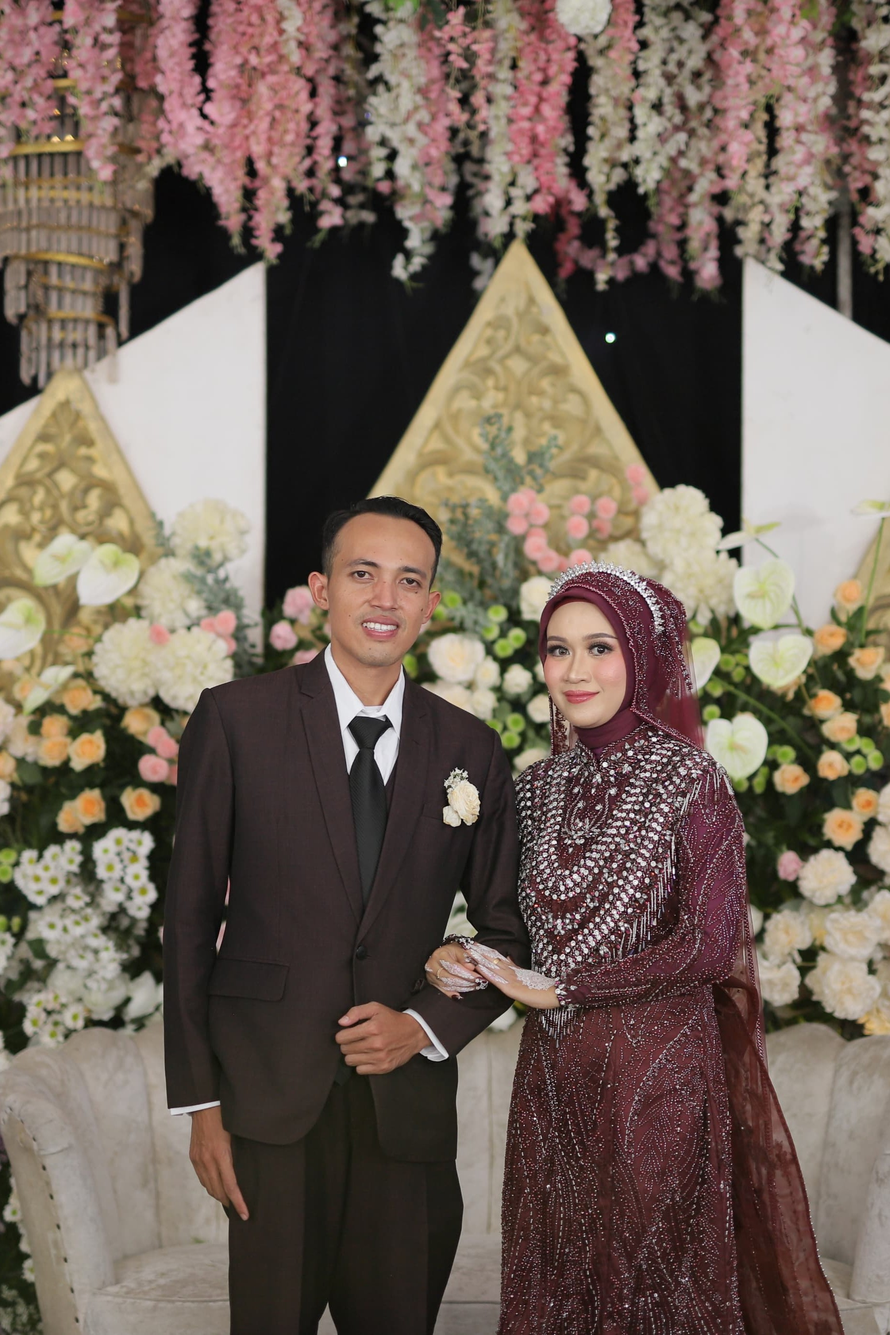
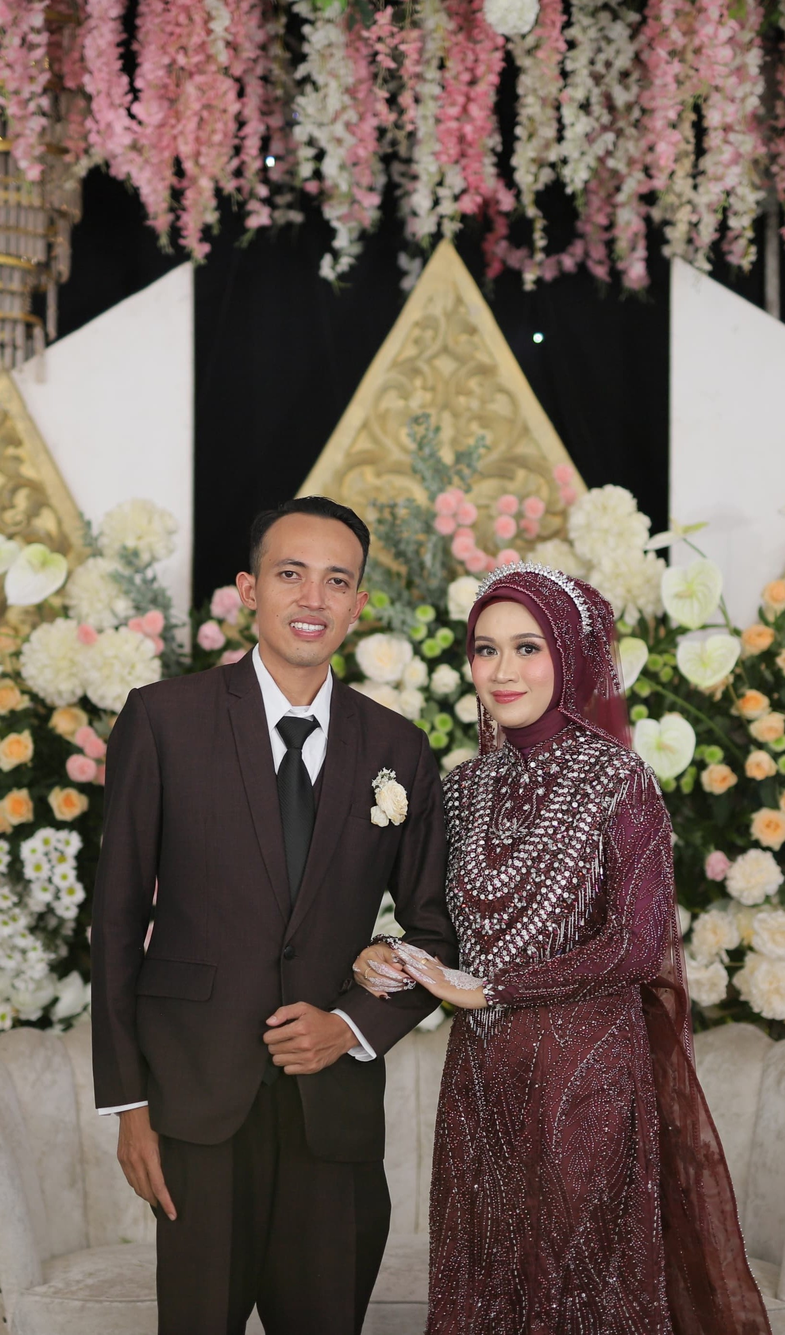
fsdfds

diff --git a/unduh-mantu-keluarga-wbs/index.html b/unduh-mantu-keluarga-wbs/index.html
@@ -3676,25 +3676,6 @@
 									src="https://s.w.org/images/core/emoji/13.0.1/svg/2764.svg" alt="❤" /> by momenin.my.id</p>
 						</div>
 					</div>
-					<div class="elementor-element elementor-element-9167374 elementor-shape-rounded elementor-grid-0 e-grid-align-center elementor-widget elementor-widget-social-icons"
-						data-id="9167374" data-element_type="widget" data-widget_type="social-icons.default">
-						<div class="elementor-widget-container">
-							<div class="elementor-social-icons-wrapper elementor-grid">
-								<span class="elementor-grid-item">
-									<a class="elementor-icon elementor-social-icon elementor-social-icon-instagram elementor-repeater-item-d0d1213"
-										href="https://www.instagram.com/punakawandigital/" target="_blank">
-										<span class="elementor-screen-only">Instagram</span>
-										<i class="fab fa-instagram"></i> </a>
-								</span>
-								<span class="elementor-grid-item">
-									<a class="elementor-icon elementor-social-icon elementor-social-icon-whatsapp elementor-repeater-item-c981bfa"
-										href="https://wa.me/message/OB5KMSEJ3Z6LL1" target="_blank">
-										<span class="elementor-screen-only">Whatsapp</span>
-										<i class="fab fa-whatsapp"></i> </a>
-								</span>
-							</div>
-						</div>
-					</div>
 					<div class="elementor-element elementor-element-54fae31c elementor-view-stacked elementor-shape-circle elementor-widget elementor-widget-weddingpress-audio"
 						data-id="54fae31c" data-element_type="widget"
 						data-settings="{&quot;sticky&quot;:&quot;bottom&quot;,&quot;sticky_offset&quot;:40,&quot;sticky_offset_mobile&quot;:40,&quot;loop&quot;:&quot;yes&quot;,&quot;sticky_on&quot;:[&quot;desktop&quot;,&quot;tablet&quot;,&quot;mobile&quot;],&quot;sticky_effects_offset&quot;:0,&quot;sticky_anchor_link_offset&quot;:0}"
